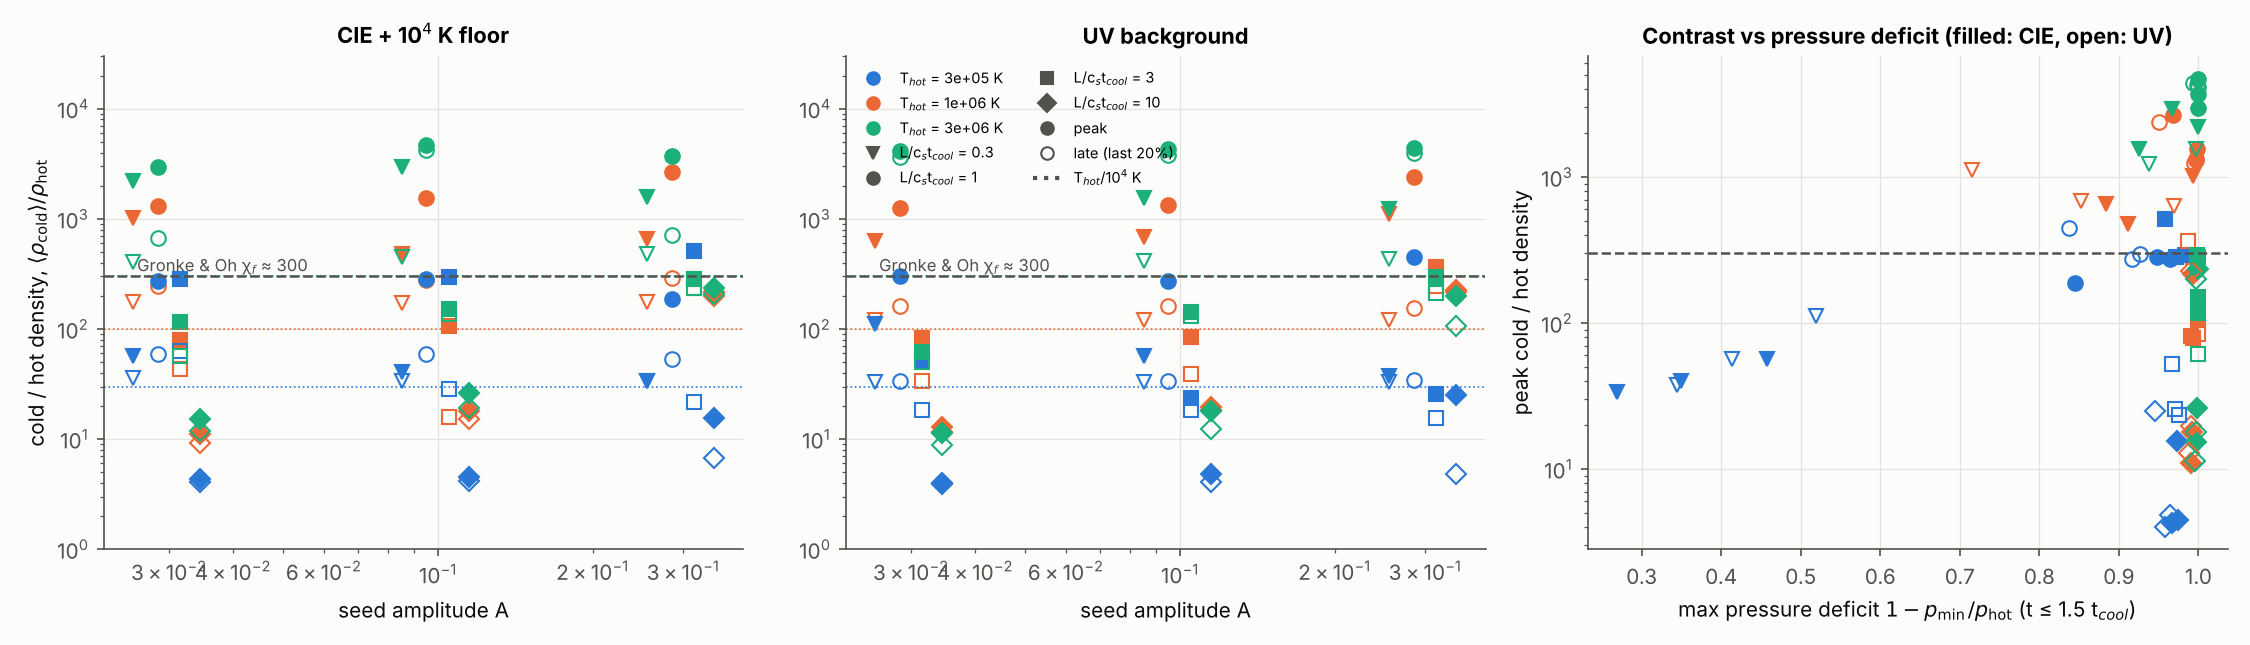
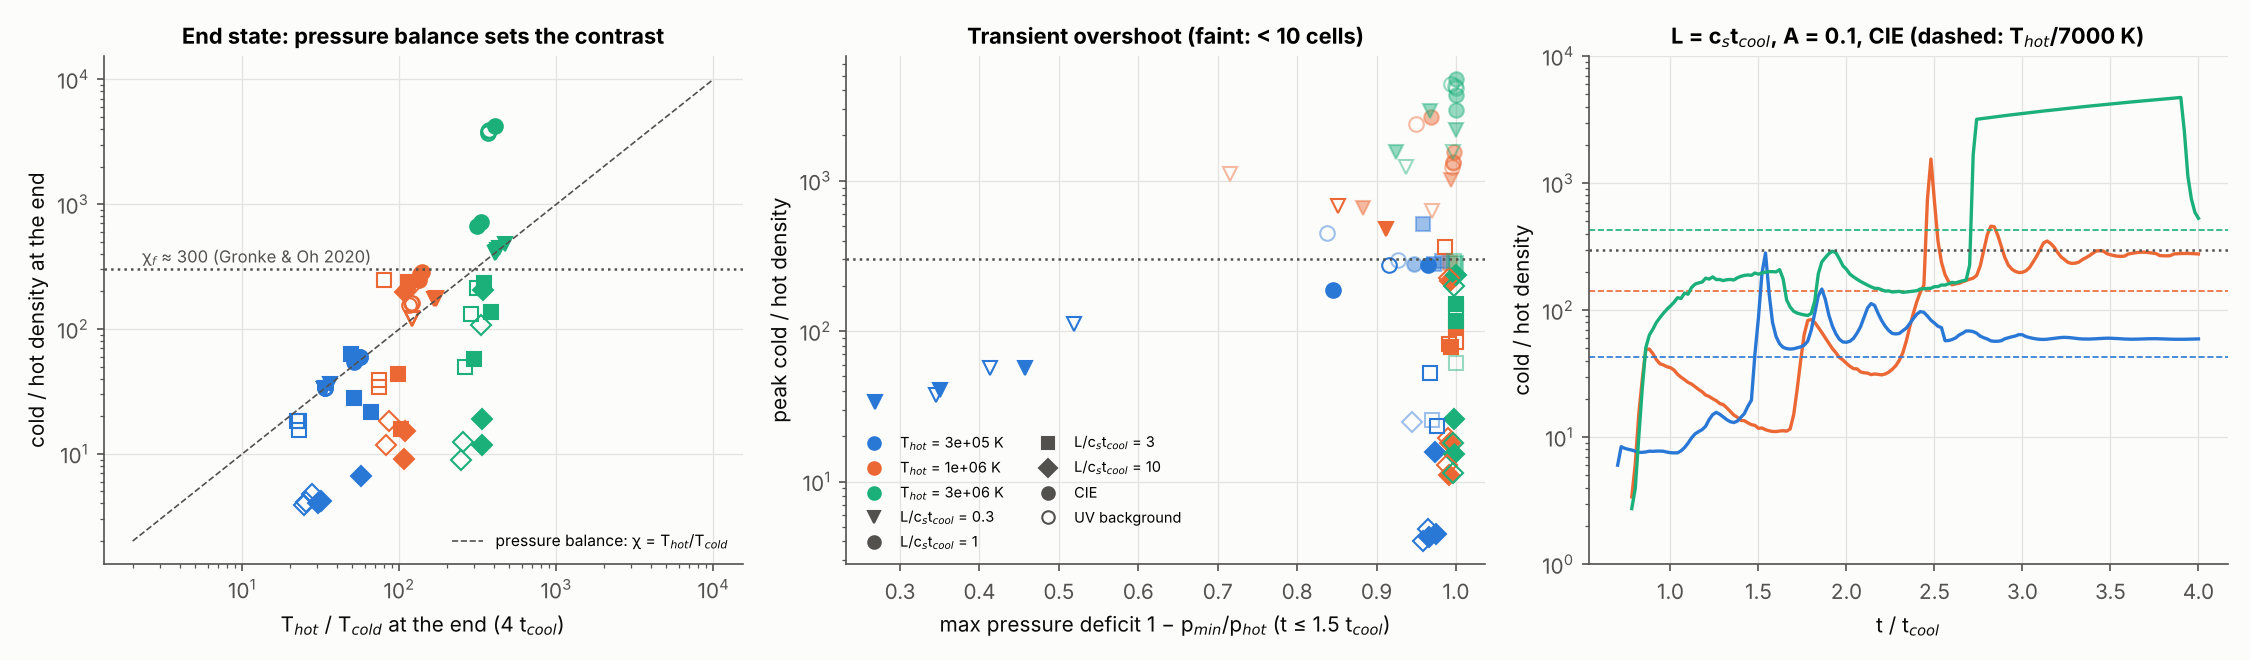
Nonlinear figure redesign; long and high-resolution nonlinear sweeps defined
Claude-Session: https://claude.ai/code/session_013ncLNAekGpQH8Wdgfujx6v

diff --git a/python/make_figures_paper.py b/python/make_figures_paper.py
@@ -384,55 +384,80 @@ def nl_metrics(d):
                 deficit=np.nanmax(defic[t <= 1.5]))
 
 
+def nl_end_state(d):
+    """Mass-weighted T and p of the cold cloud gas in the last stored profile, and
+    the median T and p of the hot ambient gas."""
+    p = d["params"]
+    rho, prs, T, trc = d["profiles"][-1][:4]
+    T_cold_thr = 2.0 * (1.3e4 if p["cooling"] == "pie" else 1e4)
+    cold = (trc > 0.5) & (T < T_cold_thr)
+    hot = (trc < 0.5) & (T > 0.5 * p["T_bg"])
+    if not cold.any() or not hot.any():
+        return dict(T_cold=np.nan, p_ratio=np.nan, T_ratio=np.nan, cells=0)
+    Tc = np.sum(T[cold] * rho[cold]) / np.sum(rho[cold])
+    pc = np.sum(prs[cold] * rho[cold]) / np.sum(rho[cold])
+    return dict(T_cold=Tc, p_ratio=pc / np.median(prs[hot]), T_ratio=np.median(T[hot]) / Tc,
+                cells=int(cold.sum()))
+
+
 def fig_nonlinear():
     R = [d for d in runs("nonlinear") if d["params"]["L_cloud"] > 0]
     if not R:
         return
-    M = [nl_metrics(d) for d in R]
-    fig, ax = plt.subplots(1, 3, figsize=(15, 4.3))
-    for col, cool, title in [(0, "cie", "CIE + 10$^4$ K floor"), (1, "pie", "UV background")]:
-        a = ax[col]
-        for mm in M:
-            if mm["cool"] != cool:
-                continue
-            c = NL_TCOL[mm["T"]]
-            jit = {0.3: 0.85, 1.0: 0.95, 3.0: 1.05, 10.0: 1.15}[mm["Lx"]]
-            a.loglog(mm["A"] * jit, mm["chi_peak"], NL_MARK[mm["Lx"]], color=c, ms=7)
-            a.loglog(mm["A"] * jit, mm["chi_late"], NL_MARK[mm["Lx"]], color=c, ms=7, mfc="none")
-        for T, c in NL_TCOL.items():
-            a.axhline(T / 1e4, color=c, lw=0.8, ls=":")
-        a.axhline(300, color=INK2, lw=1.2, ls="--")
-        a.text(0.026, 330, "Gronke & Oh χ$_f$ ≈ 300", fontsize=8, color=INK2)
-        a.set_xlabel("seed amplitude A")
-        a.set_title(title)
-        a.set_ylim(1, 3e4)
-    ax[0].set_ylabel(r"cold / hot density, $\langle\rho_{\rm cold}\rangle/\rho_{\rm hot}$")
-    h = [Line2D([], [], color=c, marker="o", ls="none", label=f"T$_{{hot}}$ = {T:.0e} K")
-         for T, c in NL_TCOL.items()]
-    h += [Line2D([], [], color=INK2, marker=m, ls="none", label=f"L/c$_s$t$_{{cool}}$ = {Lx:g}")
-          for Lx, m in NL_MARK.items()]
-    h += [Line2D([], [], color=INK2, marker="o", ls="none", label="peak"),
-          Line2D([], [], color=INK2, marker="o", mfc="none", ls="none", label="late (last 20%)"),
-          Line2D([], [], color=INK2, ls=":", label="T$_{hot}$/10$^4$ K")]
-    ax[1].legend(handles=h, fontsize=7, loc="upper left", ncol=2)
-    # pressure deficit vs late contrast
-    a = ax[2]
-    for mm in M:
+    fig, ax = plt.subplots(1, 3, figsize=(15, 4.4))
+    rows = []
+    for d in R:
+        mm = nl_metrics(d)
+        mm.update(nl_end_state(d))
+        rows.append(mm)
         c = NL_TCOL[mm["T"]]
-        a.semilogy(mm["deficit"], mm["chi_peak"], NL_MARK[mm["Lx"]], color=c, ms=7,
-                   mfc=c if mm["cool"] == "cie" else "none")
-    a.axhline(300, color=INK2, lw=1.2, ls="--")
-    a.set_xlabel(r"max pressure deficit $1-p_{\min}/p_{\rm hot}$ (t ≤ 1.5 t$_{cool}$)")
-    a.set_ylabel("peak cold / hot density")
-    a.set_title("Contrast vs pressure deficit (filled: CIE, open: UV)")
+        mk = NL_MARK[mm["Lx"]]
+        fill = c if mm["cool"] == "cie" else "none"
+        # (a) late contrast vs T_hot/T_cold
+        if np.isfinite(mm["T_ratio"]):
+            ax[0].loglog(mm["T_ratio"], mm["chi_late"], mk, color=c, ms=7, mfc=fill)
+        # (b) peak contrast vs pressure deficit
+        ax[1].semilogy(mm["deficit"], mm["chi_peak"], mk, color=c, ms=7, mfc=fill,
+                       alpha=1.0 if mm["cells_peak"] >= 10 else 0.45)
+    lim = [2, 1e4]
+    ax[0].plot(lim, lim, color=INK2, lw=0.8, ls="--", label="pressure balance: χ = T$_{hot}$/T$_{cold}$")
+    for a in ax[:2]:
+        a.axhline(300, color=INK2, lw=1.2, ls=":")
+    ax[0].text(2.3, 340, "χ$_f$ ≈ 300 (Gronke & Oh 2020)", fontsize=8, color=INK2)
+    ax[0].set_xlabel("T$_{hot}$ / T$_{cold}$ at the end (4 t$_{cool}$)")
+    ax[0].set_ylabel("cold / hot density at the end")
+    ax[0].set_title("End state: pressure balance sets the contrast")
+    ax[0].legend(fontsize=7.5, loc="lower right")
+    ax[1].set_xlabel(r"max pressure deficit 1 − p$_{min}$/p$_{hot}$ (t ≤ 1.5 t$_{cool}$)")
+    ax[1].set_ylabel("peak cold / hot density")
+    ax[1].set_title("Transient overshoot (faint: < 10 cells)")
+    # (c) histories, L = c_s t_cool, A = 0.1, CIE
+    a = ax[2]
+    for d in R:
+        p = d["params"]
+        if p["cooling"] != "cie" or p["amp"] != 0.1 or abs(p["L_cloud"] / d["cs_tcool0"] - 1) > 0.05:
+            continue
+        t = d["t"] / tc(d)
+        chi = np.asarray(d["nl_rho_cold"]) / np.asarray(d["nl_rho_hot"])
+        a.semilogy(t, chi, color=NL_TCOL[p["T_bg"]], lw=1.6)
+        a.axhline(p["T_bg"] / 7e3, color=NL_TCOL[p["T_bg"]], lw=0.8, ls="--")
+    a.axhline(300, color=INK2, lw=1.2, ls=":")
+    a.set_xlabel("t / t$_{cool}$")
+    a.set_ylabel("cold / hot density")
+    a.set_title("L = c$_s$t$_{cool}$, A = 0.1, CIE (dashed: T$_{hot}$/7000 K)")
+    a.set_ylim(1, 1e4)
+    h = [Line2D([], [], color=c, marker="o", ls="none", label=f"T$_{{hot}}$ = {T:.0e} K") for T, c in NL_TCOL.items()]
+    h += [Line2D([], [], color=INK2, marker=m, ls="none", label=f"L/c$_s$t$_{{cool}}$ = {Lx:g}") for Lx, m in NL_MARK.items()]
+    h += [Line2D([], [], color=INK2, marker="o", ls="none", label="CIE"),
+          Line2D([], [], color=INK2, marker="o", mfc="none", ls="none", label="UV background")]
+    ax[1].legend(handles=h, fontsize=7, loc="lower left", ncol=2)
     save(fig, "figP_nonlinear.png")
-    print("%-5s %-8s %5s %5s %8s %8s %8s %6s %6s %6s %6s" % ("cool", "T", "Lx", "A", "chi_pk", "t_pk",
-          "chi_lt", "cells", "ncold", "defic", "fcold"))
-    for mm in sorted(M, key=lambda q: (q["cool"], q["T"], q["Lx"], q["A"])):
-        print("%-5s %-8.0e %5g %5g %8.1f %8.2f %8.1f %6d %6d %6.2f %6.2f" % (
-            mm["cool"], mm["T"], mm["Lx"], mm["A"], mm["chi_peak"], mm["t_peak"], mm["chi_late"],
-            mm["cells_peak"], mm["ncold_late"], mm["deficit"], mm["cold_frac"]))
-
+    print("%-5s %-7s %4s %5s %8s %8s %8s %7s %6s %6s %6s" % ("cool", "T", "Lx", "A", "chi_pk", "chi_end",
+          "T_ratio", "p_ratio", "cells", "defic", "fcold"))
+    for mm in sorted(rows, key=lambda q: (q["cool"], q["T"], q["Lx"], q["A"])):
+        print("%-5s %-7.0e %4g %5g %8.0f %8.0f %8.0f %7.2f %6d %6.2f %6.2f" % (
+            mm["cool"], mm["T"], mm["Lx"], mm["A"], mm["chi_peak"], mm["chi_late"], mm["T_ratio"],
+            mm["p_ratio"], mm["cells"], mm["deficit"], mm["cold_frac"]))
 
 if __name__ == "__main__":
     import sys

diff --git a/python/sweep.py b/python/sweep.py
@@ -308,7 +308,15 @@ def nonlinear_res_runs():
             and any(f"_Lx{s}_" in kw["name"] for s in ("0p3", "1"))]
 
 
-SWEEPS = dict(nonlinear=nonlinear_runs, nonlinear_res=nonlinear_res_runs, chi1=chi1_runs, chi1_large=chi1_large_runs, chi1_amplitude=chi1_amplitude_runs,
+def nonlinear_long_runs():
+    """Large clouds of the nonlinear sweep (L/(c_s t_cool) = 3, 10), run to 15 t_cool
+    so that the hot gas has time to crush them."""
+    return [dict(kw, tstop_factor=15.0, nout=500, name=kw["name"] + "_long")
+            for kw in nonlinear_runs()
+            if kw["L_cloud"] > 0 and any(f"_Lx{s}_" in kw["name"] for s in ("3", "10"))]
+
+
+SWEEPS = dict(nonlinear=nonlinear_runs, nonlinear_long=nonlinear_long_runs, nonlinear_res=nonlinear_res_runs, chi1=chi1_runs, chi1_large=chi1_large_runs, chi1_amplitude=chi1_amplitude_runs,
               chi1_resolution=chi1_resolution_runs, chi1_pert=chi1_pert_runs, chi1_pert_big=chi1_pert_big_runs,
               chi1_scaling=chi1_scaling_runs, longval=longval_runs, pert_infinite=pert_infinite_runs, pert_cloud=pert_cloud_runs,
               infinite_uvb=infinite_uvb_runs, cloud_uvb=cloud_uvb_runs,
